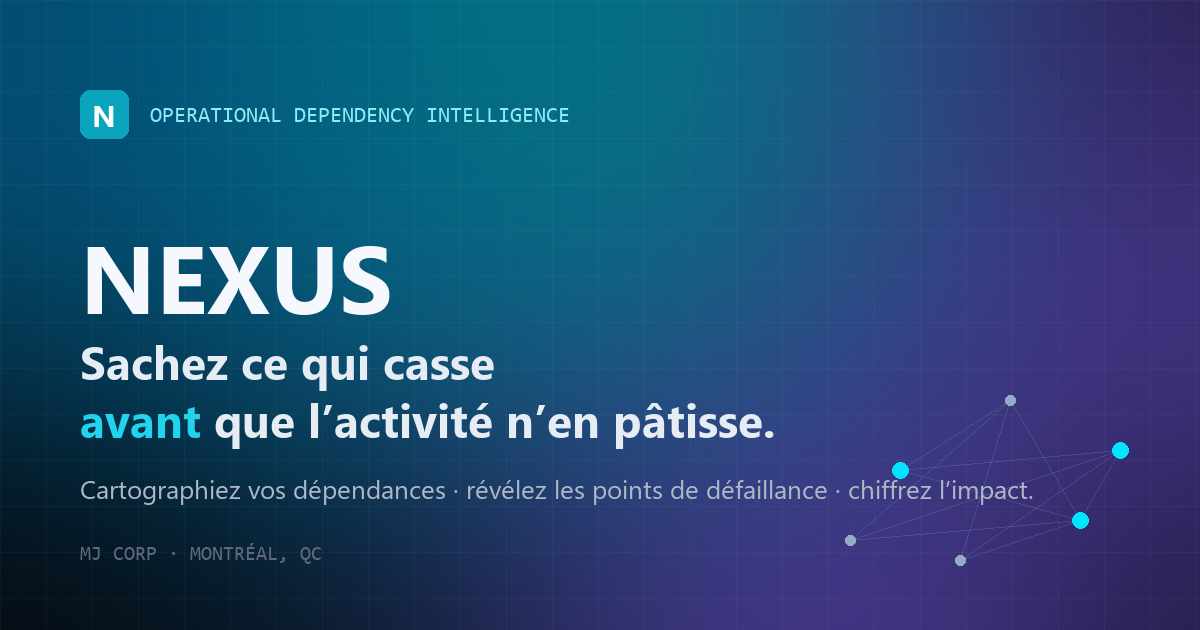
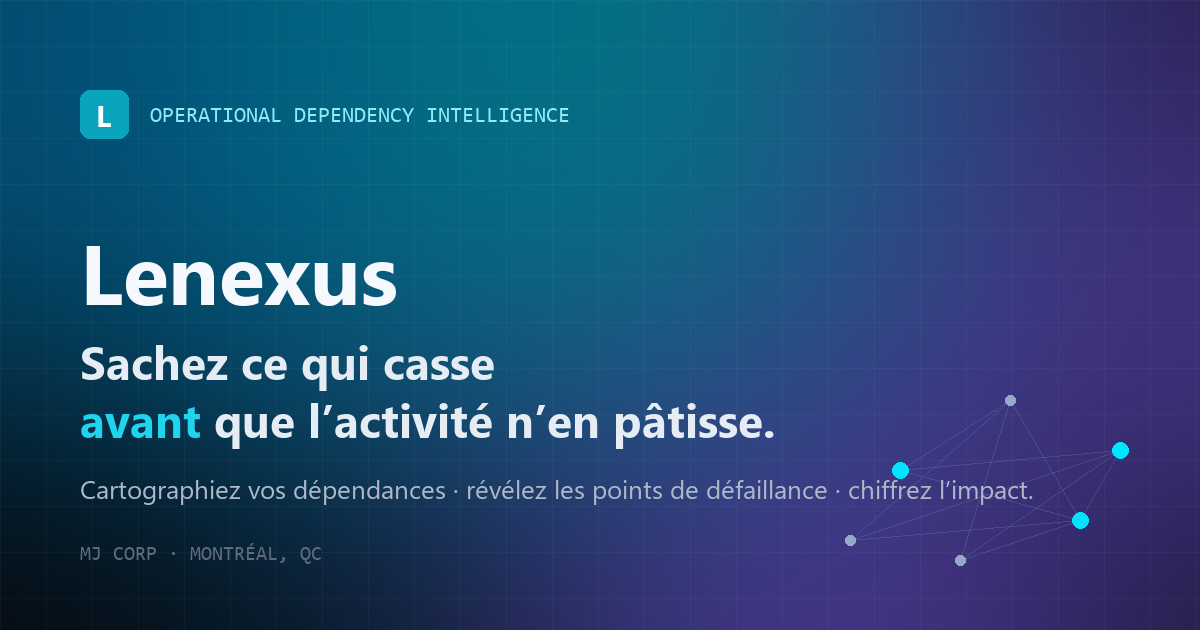
brand: rename displayed 'NEXUS' to 'Lenexus' across UI, metadata and OG image (nexus domain taken); internal namespaces/services unchanged

Changed region(s): [[0.0617, 0.3921, 0.3392, 0.5127], [0.0617, 0.1508, 0.0925, 0.2111]]

diff --git a/frontend/src/pages/Help.tsx b/frontend/src/pages/Help.tsx
@@ -31,15 +31,15 @@ const DOCS: readonly Doc[] = [
   {
     id: 'intro',
     icon: BookOpen,
-    title: ['Qu’est-ce que NEXUS', 'What is NEXUS'],
+    title: ['Qu’est-ce que Lenexus', 'What is Lenexus'],
     blocks: [
       { kind: 'p', text: [
-        'NEXUS est une plateforme d’intelligence des dépendances opérationnelles. Elle modélise vos systèmes, applications, infrastructures, fournisseurs, personnes et processus sous forme d’un graphe de dépendances, puis analyse ce graphe pour révéler ce qui casse — avant que l’activité n’en souffre.',
-        'NEXUS is an operational dependency intelligence platform. It models your systems, applications, infrastructure, suppliers, people and processes as a dependency graph, then analyzes that graph to reveal what breaks — before the business feels it.',
+        'Lenexus est une plateforme d’intelligence des dépendances opérationnelles. Elle modélise vos systèmes, applications, infrastructures, fournisseurs, personnes et processus sous forme d’un graphe de dépendances, puis analyse ce graphe pour révéler ce qui casse — avant que l’activité n’en souffre.',
+        'Lenexus is an operational dependency intelligence platform. It models your systems, applications, infrastructure, suppliers, people and processes as a dependency graph, then analyzes that graph to reveal what breaks — before the business feels it.',
       ] },
       { kind: 'p', text: [
-        'La devise résume la promesse : « Savoir ce qui casse avant que l’activité n’en pâtisse ». Concrètement, NEXUS répond à trois questions : où sont mes points uniques de défaillance ? que se passe-t-il si tel élément tombe ? combien ça coûte et combien de temps pour récupérer ?',
-        'The tagline sums up the promise: “Know what breaks before the business does.” In practice, NEXUS answers three questions: where are my single points of failure? what happens if a given element fails? how much does it cost and how long to recover?',
+        'La devise résume la promesse : « Savoir ce qui casse avant que l’activité n’en pâtisse ». Concrètement, Lenexus répond à trois questions : où sont mes points uniques de défaillance ? que se passe-t-il si tel élément tombe ? combien ça coûte et combien de temps pour récupérer ?',
+        'The tagline sums up the promise: “Know what breaks before the business does.” In practice, Lenexus answers three questions: where are my single points of failure? what happens if a given element fails? how much does it cost and how long to recover?',
       ] },
       { kind: 'h', text: ['À qui ça s’adresse', 'Who it is for'] },
       { kind: 'ul', items: [
@@ -73,8 +73,8 @@ const DOCS: readonly Doc[] = [
     title: ['Modèle de données : le graphe', 'Data model: the graph'],
     blocks: [
       { kind: 'p', text: [
-        'Tout dans NEXUS est soit une entité (un nœud), soit une relation (une arête orientée entre deux entités). C’est ce qui permet de suivre une dépendance de bout en bout.',
-        'Everything in NEXUS is either an entity (a node) or a relation (a directed edge between two entities). That is what makes it possible to trace a dependency end to end.',
+        'Tout dans Lenexus est soit une entité (un nœud), soit une relation (une arête orientée entre deux entités). C’est ce qui permet de suivre une dépendance de bout en bout.',
+        'Everything in Lenexus is either an entity (a node) or a relation (a directed edge between two entities). That is what makes it possible to trace a dependency end to end.',
       ] },
       { kind: 'h', text: ['Entités', 'Entities'] },
       { kind: 'ul', items: [
@@ -152,8 +152,8 @@ const DOCS: readonly Doc[] = [
         ['≤ 20 Faible · ≤ 40 Modéré · ≤ 60 Élevé · ≤ 80 Haut · > 80 Critique.', '≤ 20 Low · ≤ 40 Moderate · ≤ 60 Elevated · ≤ 80 High · > 80 Critical.'],
       ] },
       { kind: 'p', text: [
-        'Un point unique de défaillance (SPOF) est un élément dont beaucoup dépendent sans alternative : sa panne se propage largement. NEXUS les détecte structurellement et les met en tête.',
-        'A single point of failure (SPOF) is an element that many depend on with no alternative: its failure propagates widely. NEXUS detects them structurally and surfaces them first.',
+        'Un point unique de défaillance (SPOF) est un élément dont beaucoup dépendent sans alternative : sa panne se propage largement. Lenexus les détecte structurellement et les met en tête.',
+        'A single point of failure (SPOF) is an element that many depend on with no alternative: its failure propagates widely. Lenexus detects them structurally and surfaces them first.',
       ] },
     ],
   },
@@ -184,12 +184,12 @@ const DOCS: readonly Doc[] = [
     title: ['Connecteurs & import de données', 'Connectors & data import'],
     blocks: [
       { kind: 'p', text: [
-        'NEXUS accepte les données par import — vous gardez le contrôle de ce que vous partagez, sans donner d’accès privilégié à vos systèmes. Le catalogue distingue quatre niveaux.',
-        'NEXUS accepts data by import — you keep control of what you share, without granting privileged access to your systems. The catalogue has four tiers.',
+        'Lenexus accepte les données par import — vous gardez le contrôle de ce que vous partagez, sans donner d’accès privilégié à vos systèmes. Le catalogue distingue quatre niveaux.',
+        'Lenexus accepts data by import — you keep control of what you share, without granting privileged access to your systems. The catalogue has four tiers.',
       ] },
       { kind: 'ul', items: [
         ['Actif — fonctionne immédiatement : CSV/Excel, JSON (fichier ou URL), Import assisté par IA, Serveur MCP.', 'Active — works immediately: CSV/Excel, JSON (file or URL), AI-assisted import, MCP server.'],
-        ['Assisté — vous exportez depuis la plateforme source (M365, ServiceNow, AWS…) puis importez ; NEXUS guide le mapping.', 'Assisted — you export from the source platform (M365, ServiceNow, AWS…) then import; NEXUS guides the mapping.'],
+        ['Assisté — vous exportez depuis la plateforme source (M365, ServiceNow, AWS…) puis importez ; Lenexus guide le mapping.', 'Assisted — you export from the source platform (M365, ServiceNow, AWS…) then import; Lenexus guides the mapping.'],
         ['Prêt pour clé — modèles IA qui s’activent dès qu’une clé est fournie.', 'Key-ready — AI models that activate as soon as a key is provided.'],
         ['Roadmap — annoncés, pas encore construits.', 'Roadmap — announced, not built yet.'],
       ] },
@@ -200,8 +200,8 @@ const DOCS: readonly Doc[] = [
       ] },
       { kind: 'h', text: ['Résolution tolérante', 'Tolerant resolution'] },
       { kind: 'p', text: [
-        'À l’import, NEXUS reconnaît les synonymes et variantes de types (ex. « depends on », « DependsOn » → DEPENDS_ON) au lieu de rejeter la ligne. Les cas inconnus retombent sur des valeurs sûres.',
-        'On import, NEXUS recognizes synonyms and type variants (e.g. “depends on”, “DependsOn” → DEPENDS_ON) instead of dropping the row. Unknown cases fall back to safe defaults.',
+        'À l’import, Lenexus reconnaît les synonymes et variantes de types (ex. « depends on », « DependsOn » → DEPENDS_ON) au lieu de rejeter la ligne. Les cas inconnus retombent sur des valeurs sûres.',
+        'On import, Lenexus recognizes synonyms and type variants (e.g. “depends on”, “DependsOn” → DEPENDS_ON) instead of dropping the row. Unknown cases fall back to safe defaults.',
       ] },
     ],
   },
@@ -227,8 +227,8 @@ const DOCS: readonly Doc[] = [
     title: ['L’assistant IA', 'The AI Analyst'],
     blocks: [
       { kind: 'p', text: [
-        'L’Assistant IA répond en langage naturel, mais les chiffres viennent toujours des moteurs déterministes de NEXUS. L’IA ne fait que formuler la réponse — elle n’invente aucune donnée.',
-        'The AI Analyst answers in natural language, but the numbers always come from NEXUS’s deterministic engines. The AI only phrases the answer — it invents no data.',
+        'L’Assistant IA répond en langage naturel, mais les chiffres viennent toujours des moteurs déterministes de Lenexus. L’IA ne fait que formuler la réponse — elle n’invente aucune donnée.',
+        'The AI Analyst answers in natural language, but the numbers always come from Lenexus’s deterministic engines. The AI only phrases the answer — it invents no data.',
       ] },
       { kind: 'ul', items: [
         ['Fonctionne sans clé (réponses ancrées, non « naturalisées »).', 'Works without a key (grounded answers, not “naturalized”).'],
@@ -250,7 +250,7 @@ const DOCS: readonly Doc[] = [
         ['Authentification par jeton (JWT) : sans jeton valide, l’API est fermée.', 'Token authentication (JWT): without a valid token, the API is closed.'],
         ['Chaque compte est rattaché à un espace de travail (tenant) ; le tenant est inscrit dans le jeton par le serveur, pas falsifiable côté client.', 'Each account is bound to a workspace (tenant); the tenant is stamped into the token by the server, not client-falsifiable.'],
         ['Inscription libre : chaque nouveau compte ouvre un espace vierge et isolé, dont il est administrateur.', 'Self-registration: each new account opens a blank, isolated workspace it administers.'],
-        ['SSO Entra ID (Microsoft) disponible : connexion avec le compte professionnel, sans mot de passe NEXUS (activé par l’administrateur du déploiement).', 'Entra ID (Microsoft) SSO available: sign in with the corporate account, no NEXUS password (enabled by the deployment admin).'],
+        ['SSO Entra ID (Microsoft) disponible : connexion avec le compte professionnel, sans mot de passe Lenexus (activé par l’administrateur du déploiement).', 'Entra ID (Microsoft) SSO available: sign in with the corporate account, no Lenexus password (enabled by the deployment admin).'],
         ['Les mots de passe ne sont jamais stockés en clair (empreinte PBKDF2).', 'Passwords are never stored in clear text (PBKDF2 hash).'],
       ] },
       { kind: 'p', text: [
@@ -271,8 +271,8 @@ const DOCS: readonly Doc[] = [
       ] },
       { kind: 'h', text: ['Dois-je donner accès à mes systèmes ?', 'Do I have to grant access to my systems?'] },
       { kind: 'p', text: [
-        'Non. NEXUS fonctionne par import : vous n’exposez que ce que vous choisissez de partager. Les connexions directes en lecture seule sont une étape ultérieure et optionnelle.',
-        'No. NEXUS works by import: you only expose what you choose to share. Direct read-only connections are a later, optional step.',
+        'Non. Lenexus fonctionne par import : vous n’exposez que ce que vous choisissez de partager. Les connexions directes en lecture seule sont une étape ultérieure et optionnelle.',
+        'No. Lenexus works by import: you only expose what you choose to share. Direct read-only connections are a later, optional step.',
       ] },
       { kind: 'h', text: ['Les chiffres de risque sont-ils fiables ?', 'Are the risk numbers trustworthy?'] },
       { kind: 'p', text: [
@@ -281,8 +281,8 @@ const DOCS: readonly Doc[] = [
       ] },
       { kind: 'h', text: ['Comment obtenir de l’aide ?', 'How do I get help?'] },
       { kind: 'p', text: [
-        'Écrivez à support@nexus.io. Pour un déploiement (SSO, clés, connexions directes), contactez votre administrateur NEXUS.',
-        'Email support@nexus.io. For a deployment (SSO, keys, direct connections), contact your NEXUS administrator.',
+        'Écrivez à support@nexus.io. Pour un déploiement (SSO, clés, connexions directes), contactez votre administrateur Lenexus.',
+        'Email support@nexus.io. For a deployment (SSO, keys, direct connections), contact your Lenexus administrator.',
       ] },
     ],
   },
@@ -314,7 +314,7 @@ export function Help() {
           <BookOpen size={22} style={{ color: CYAN }} /> {t('Documentation & guide d’usage', 'Documentation & usage guide')}
         </h2>
         <p className="mt-1" style={{ fontSize: 13, color: 'var(--nx-text-muted)' }}>
-          {t('Tout ce qu’il faut savoir pour prendre NEXUS en main — concepts, modules, calcul du risque, sécurité.', 'Everything you need to get started with NEXUS — concepts, modules, risk computation, security.')}
+          {t('Tout ce qu’il faut savoir pour prendre Lenexus en main — concepts, modules, calcul du risque, sécurité.', 'Everything you need to get started with Lenexus — concepts, modules, risk computation, security.')}
         </p>
       </div>
 

diff --git a/frontend/src/pages/Landing.tsx b/frontend/src/pages/Landing.tsx
@@ -54,7 +54,7 @@ export function Landing() {
           <div className="flex h-8 w-8 items-center justify-center" style={{ background: '#6a86ff', clipPath: 'polygon(0 0,100% 0,100% 70%,70% 100%,0 100%)' }}>
             <Share2 size={16} strokeWidth={2.4} style={{ color: '#070714' }} />
           </div>
-          <span className="text-lg font-semibold tracking-tight" style={{ fontFamily: geist }}>NEXUS</span>
+          <span className="text-lg font-semibold tracking-tight" style={{ fontFamily: geist }}>Lenexus</span>
         </div>
         <nav className="slb-nav-links">
           <a href="#essentiel">{t('L’essentiel', 'Essentials')}</a>
@@ -89,8 +89,8 @@ export function Landing() {
             <span className="slb-accent">{t('avant', 'before')}</span> {t('que l’activité n’en pâtisse.', 'the business does.')}
           </h1>
           <p className="slb-sub">
-            {t('NEXUS cartographie vos systèmes, fournisseurs et personnes en un graphe vivant, révèle vos points uniques de défaillance, simule les pannes et en chiffre l’impact.',
-               'NEXUS maps your systems, suppliers and people into a living graph, reveals your single points of failure, simulates outages and quantifies their impact.')}
+            {t('Lenexus cartographie vos systèmes, fournisseurs et personnes en un graphe vivant, révèle vos points uniques de défaillance, simule les pannes et en chiffre l’impact.',
+               'Lenexus maps your systems, suppliers and people into a living graph, reveals your single points of failure, simulates outages and quantifies their impact.')}
           </p>
           <div className="mt-9 flex flex-col gap-3 sm:flex-row">
             <BoxBtn onClick={() => navigate('/login?signup=1')} label={t('Créer un compte', 'Create an account')} primary />
@@ -102,7 +102,7 @@ export function Landing() {
       {/* ══════════ L'ESSENTIEL — 3 numéros ══════════ */}
       <Section id="essentiel">
         <Label>{t('L’essentiel', 'The essentials')}</Label>
-        <SectionH>{t('Comment NEXUS révèle vos angles morts.', 'How NEXUS reveals your blind spots.')}</SectionH>
+        <SectionH>{t('Comment Lenexus révèle vos angles morts.', 'How Lenexus reveals your blind spots.')}</SectionH>
         <div className="mt-14 grid gap-px md:grid-cols-3" style={{ background: '#1c1c22' }}>
           <NumCard n="01" tag={t('Cartographie', 'Mapping')} title={t('Cartographier', 'Map')}
             body={t('Systèmes, fournisseurs et personnes dans un graphe unique et navigable.', 'Systems, suppliers and people in a single, navigable graph.')} />
@@ -127,8 +127,8 @@ export function Landing() {
       <Section>
         <DeepRow reverse tag="02 · " kicker={t('Simulation', 'Simulation')}
           title={t('Rejouez une panne, mesurez l’impact.', 'Replay an outage, measure the impact.')}
-          body={t('Coupez virtuellement un élément ou testez une décision : NEXUS calcule la cascade, le délai de reprise et l’impact financier, puis l’IA l’explique en langage clair.',
-                  'Virtually cut an element or test a decision: NEXUS computes the cascade, the recovery time and the financial impact, then the AI explains it in plain language.')}
+          body={t('Coupez virtuellement un élément ou testez une décision : Lenexus calcule la cascade, le délai de reprise et l’impact financier, puis l’IA l’explique en langage clair.',
+                  'Virtually cut an element or test a decision: Lenexus computes the cascade, the recovery time and the financial impact, then the AI explains it in plain language.')}
           points={[t('Propagation multi-niveaux', 'Multi-level propagation'), t('RTO et impact chiffré', 'RTO and quantified impact'), t('Comparaison de scénarios', 'Scenario comparison')]}
           visual={<ImpactBars />} />
         <div className="mt-10 flex flex-wrap gap-2">
@@ -188,10 +188,10 @@ export function Landing() {
         <Label>FAQ</Label>
         <SectionH>{t('Questions fréquentes.', 'Frequent questions.')}</SectionH>
         <div className="mt-10 mx-auto max-w-3xl">
-          <Faq q={t('Faut-il connecter NEXUS à nos systèmes ?', 'Do we need to connect NEXUS to our systems?')}
-            a={t('Non. NEXUS fonctionne par import : fichier, JSON ou données collées que l’IA structure. Aucun accès privilégié requis.', 'No. NEXUS works by import: file, JSON or pasted data the AI structures. No privileged access required.')} />
+          <Faq q={t('Faut-il connecter Lenexus à nos systèmes ?', 'Do we need to connect Lenexus to our systems?')}
+            a={t('Non. Lenexus fonctionne par import : fichier, JSON ou données collées que l’IA structure. Aucun accès privilégié requis.', 'No. Lenexus works by import: file, JSON or pasted data the AI structures. No privileged access required.')} />
           <Faq q={t('L’IA invente-t-elle des chiffres ?', 'Does the AI make up numbers?')}
-            a={t('Jamais. Le moteur déterministe calcule ; l’IA interprète et explique. Sans clé, NEXUS bascule sur des règles et reste fonctionnel.', 'Never. The deterministic engine computes; the AI interprets and explains. Without a key, NEXUS falls back to rules and stays functional.')} />
+            a={t('Jamais. Le moteur déterministe calcule ; l’IA interprète et explique. Sans clé, Lenexus bascule sur des règles et reste fonctionnel.', 'Never. The deterministic engine computes; the AI interprets and explains. Without a key, Lenexus falls back to rules and stays functional.')} />
           <Faq q={t('Nos données sont-elles isolées ?', 'Is our data isolated?')}
             a={t('Oui. Un espace de travail cloisonné par client, mots de passe hachés, SSO Entra ID disponible.', 'Yes. A partitioned workspace per client, hashed passwords, Entra ID SSO available.')} />
           <Faq q={t('Combien de temps pour un premier résultat ?', 'How long to a first result?')}
@@ -221,7 +221,7 @@ export function Landing() {
         <div className="mx-auto flex max-w-6xl flex-col items-center justify-between gap-4 sm:flex-row">
           <div className="flex items-center gap-2">
             <Share2 size={15} style={{ color: '#6a86ff' }} />
-            <span style={{ fontFamily: geist, fontSize: 14 }}>NEXUS</span>
+            <span style={{ fontFamily: geist, fontSize: 14 }}>Lenexus</span>
             <span style={{ fontFamily: mono, fontSize: 11, color: '#6b6b78' }}>· MJ Corp</span>
           </div>
           <p style={{ fontFamily: mono, fontSize: 11, color: '#6b6b78' }}>{t('Savoir ce qui casse avant que l’activité n’en pâtisse.', 'Know what breaks before the business does.')}</p>

diff --git a/frontend/index.html b/frontend/index.html
@@ -5,13 +5,13 @@
     <meta name="viewport" content="width=device-width, initial-scale=1.0" />
 
     <!-- Identité -->
-    <title>NEXUS — Intelligence des dépendances opérationnelles</title>
-    <meta name="description" content="NEXUS cartographie vos systèmes, fournisseurs et personnes en un graphe de dépendances vivant, révèle vos points uniques de défaillance, simule les pannes et en chiffre l’impact." />
-    <meta name="keywords" content="NEXUS, dépendances, intelligence des dépendances, risque opérationnel, SPOF, point unique de défaillance, continuité, simulation, graphe, cybersécurité, Loi 25, RGPD, MJ Corp" />
+    <title>Lenexus — Intelligence des dépendances opérationnelles</title>
+    <meta name="description" content="Lenexus cartographie vos systèmes, fournisseurs et personnes en un graphe de dépendances vivant, révèle vos points uniques de défaillance, simule les pannes et en chiffre l’impact." />
+    <meta name="keywords" content="Lenexus, dépendances, intelligence des dépendances, risque opérationnel, SPOF, point unique de défaillance, continuité, simulation, graphe, cybersécurité, Loi 25, RGPD, MJ Corp" />
     <meta name="author" content="MJ Corp" />
     <meta name="robots" content="index, follow" />
-    <meta name="application-name" content="NEXUS" />
-    <meta name="apple-mobile-web-app-title" content="NEXUS" />
+    <meta name="application-name" content="Lenexus" />
+    <meta name="apple-mobile-web-app-title" content="Lenexus" />
     <meta name="apple-mobile-web-app-capable" content="yes" />
     <meta name="mobile-web-app-capable" content="yes" />
     <meta name="apple-mobile-web-app-status-bar-style" content="black-translucent" />
@@ -29,8 +29,8 @@
 
     <!-- Open Graph (Facebook, LinkedIn, Slack, iMessage…) -->
     <meta property="og:type" content="website" />
-    <meta property="og:site_name" content="NEXUS" />
-    <meta property="og:title" content="NEXUS — Intelligence des dépendances opérationnelles" />
+    <meta property="og:site_name" content="Lenexus" />
+    <meta property="og:title" content="Lenexus — Intelligence des dépendances opérationnelles" />
     <meta property="og:description" content="Sachez ce qui casse avant que l’activité n’en pâtisse. Cartographiez vos dépendances, révélez les points uniques de défaillance et chiffrez l’impact des pannes." />
     <meta property="og:url" content="https://nexus-web-6cak.onrender.com/" />
     <meta property="og:image" content="https://nexus-web-6cak.onrender.com/og-image.png" />
@@ -38,23 +38,23 @@
     <meta property="og:image:type" content="image/png" />
     <meta property="og:image:width" content="1200" />
     <meta property="og:image:height" content="630" />
-    <meta property="og:image:alt" content="NEXUS — Intelligence des dépendances opérationnelles" />
+    <meta property="og:image:alt" content="Lenexus — Intelligence des dépendances opérationnelles" />
     <meta property="og:locale" content="fr_CA" />
     <meta property="og:locale:alternate" content="en_CA" />
 
     <!-- Twitter / X -->
     <meta name="twitter:card" content="summary_large_image" />
-    <meta name="twitter:title" content="NEXUS — Intelligence des dépendances opérationnelles" />
+    <meta name="twitter:title" content="Lenexus — Intelligence des dépendances opérationnelles" />
     <meta name="twitter:description" content="Sachez ce qui casse avant que l’activité n’en pâtisse. Cartographiez, simulez, chiffrez l’impact." />
     <meta name="twitter:image" content="https://nexus-web-6cak.onrender.com/og-image.png" />
-    <meta name="twitter:image:alt" content="NEXUS — Intelligence des dépendances opérationnelles" />
+    <meta name="twitter:image:alt" content="Lenexus — Intelligence des dépendances opérationnelles" />
 
     <!-- Données structurées (SEO) -->
     <script type="application/ld+json">
       {
         "@context": "https://schema.org",
         "@type": "SoftwareApplication",
-        "name": "NEXUS",
+        "name": "Lenexus",
         "applicationCategory": "BusinessApplication",
         "operatingSystem": "Web",
         "description": "Plateforme d’intelligence des dépendances opérationnelles : cartographie du graphe de dépendances, détection des points uniques de défaillance, simulation de pannes et chiffrage de l’impact.",

diff --git a/frontend/src/lib/connectors.ts b/frontend/src/lib/connectors.ts
@@ -1,8 +1,8 @@
-// Catalogue de connecteurs NEXUS.
+// Catalogue de connecteurs Lenexus.
 // Statuts HONNÊTES :
 //  - active   : opérationnel aujourd'hui (moteur d'ingestion universel).
 //  - assisted : mapping d'ontologie déjà défini ; il suffit de fournir l'export
-//               du fournisseur (CSV/JSON) et NEXUS le normalise — fonctionne dès
+//               du fournisseur (CSV/JSON) et Lenexus le normalise — fonctionne dès
 //               maintenant, sans OAuth.
 //  - key      : intégration IA réelle, activée en ajoutant une clé API.
 //  - roadmap  : nécessite une synchro API/OAuth live (à venir).
@@ -47,7 +47,7 @@ export const CONNECTORS: Connector[] = [
   { id: 'webhook', name: 'Webhook entrant', category: 'files', authType: 'apikey', tier: 'assisted', glyph: 'WH', descFr: 'Recevez des événements poussés (création/mise à jour d’actifs).', descEn: 'Receive pushed events (asset create/update).', bringsFr: 'Mises à jour incrémentales', bringsEn: 'Incremental updates', docUrl: 'https://www.rfc-editor.org/rfc/rfc8935' },
 
   // ---- IA & MCP ----
-  { id: 'mcp-server', name: 'Serveur MCP NEXUS', category: 'ai', authType: 'apikey', tier: 'active', glyph: 'MCP', descFr: 'Exposez NEXUS comme serveur MCP : Claude interroge le graphe et lance des simulations.', descEn: 'Expose NEXUS as an MCP server: Claude queries the graph and runs simulations.', bringsFr: 'Requêtes graphe, risques, what-if', bringsEn: 'Graph queries, risks, what-if', docUrl: 'https://modelcontextprotocol.io/' },
+  { id: 'mcp-server', name: 'Serveur MCP Lenexus', category: 'ai', authType: 'apikey', tier: 'active', glyph: 'MCP', descFr: 'Exposez Lenexus comme serveur MCP : Claude interroge le graphe et lance des simulations.', descEn: 'Expose Lenexus as an MCP server: Claude queries the graph and runs simulations.', bringsFr: 'Requêtes graphe, risques, what-if', bringsEn: 'Graph queries, risks, what-if', docUrl: 'https://modelcontextprotocol.io/' },
   { id: 'claude', name: 'Claude (Anthropic)', category: 'ai', authType: 'apikey', tier: 'key', glyph: 'CL', descFr: 'Moteur d’analyse en langage naturel et de mapping automatique. Ajoutez une clé pour l’activer.', descEn: 'Natural-language analysis and auto-mapping engine. Add a key to enable.', bringsFr: 'Raisonnement, extraction, naturalisation', bringsEn: 'Reasoning, extraction, naturalization', docUrl: 'https://docs.anthropic.com/en/api/getting-started' },
   { id: 'gemini', name: 'Google Gemini', category: 'ai', authType: 'apikey', tier: 'key', glyph: 'GEM', descFr: 'LLM Google avec palier GRATUIT (ex. gemini-1.5-flash). Idéal pour tester sans coût. Activable par clé.', descEn: 'Google LLM with a FREE tier (e.g. gemini-1.5-flash). Ideal to test at no cost. Enable by key.', bringsFr: 'Raisonnement, extraction', bringsEn: 'Reasoning, extraction', docUrl: 'https://ai.google.dev/gemini-api/docs/api-key' },
   { id: 'openai', name: 'OpenAI', category: 'ai', authType: 'apikey', tier: 'key', glyph: 'AI', descFr: 'Fournisseur LLM alternatif pour l’analyse et le mapping. Activable par clé.', descEn: 'Alternative LLM provider for analysis and mapping. Enable by key.', bringsFr: 'Raisonnement, extraction', bringsEn: 'Reasoning, extraction', docUrl: 'https://platform.openai.com/docs' },

diff --git a/frontend/src/pages/AiAnalyst.tsx b/frontend/src/pages/AiAnalyst.tsx
@@ -63,7 +63,7 @@ export function AiAnalyst() {
       <section className="flex flex-1 flex-col overflow-hidden border-r" style={{ borderColor: 'var(--nx-border)', background: 'var(--nx-surface)' }}>
         <header className="flex h-16 shrink-0 flex-col justify-center border-b px-6" style={{ borderColor: 'var(--nx-border)', background: 'var(--nx-surface-container)' }}>
           <h2 className="flex items-center gap-2" style={{ fontFamily: mono, fontSize: 13, fontWeight: 700, letterSpacing: '0.05em', textTransform: 'uppercase', color: 'var(--nx-text)' }}>
-            <span className="h-2 w-2 animate-pulse rounded-full" style={{ background: CYAN, boxShadow: '0 0 8px #00e5ff' }} /> {t('Analyste NEXUS', 'NEXUS Analyst')}
+            <span className="h-2 w-2 animate-pulse rounded-full" style={{ background: CYAN, boxShadow: '0 0 8px #00e5ff' }} /> {t('Analyste Lenexus', 'Lenexus Analyst')}
           </h2>
           <p style={{ fontSize: 13, color: 'var(--nx-text-muted)' }}>{t('Posez des questions sur les dépendances opérationnelles de votre organisation.', "Ask questions about your organization's operational dependencies.")}</p>
         </header>
@@ -73,7 +73,7 @@ export function AiAnalyst() {
           {turns.length === 0 && (
             <div className="m-auto max-w-md text-center">
               <div className="mx-auto mb-3 w-fit rounded-sm p-3" style={{ background: 'rgba(0,229,255,0.1)', border: '1px solid rgba(0,229,255,0.3)' }}><Sparkles size={24} style={{ color: CYAN }} /></div>
-              <div style={{ fontFamily: geist, fontSize: 18, color: 'var(--nx-text)' }}>{t('Analyste NEXUS', 'NEXUS Analyst')}</div>
+              <div style={{ fontFamily: geist, fontSize: 18, color: 'var(--nx-text)' }}>{t('Analyste Lenexus', 'Lenexus Analyst')}</div>
               <p className="mt-1" style={{ fontSize: 13, color: 'var(--nx-text-muted)' }}>{t('Chaque réponse s’appuie sur les moteurs déterministes, avec ses preuves et son niveau de confiance.', 'Every answer is grounded in the deterministic engines, with its evidence and confidence.')}</p>
             </div>
           )}
@@ -114,7 +114,7 @@ export function AiAnalyst() {
           </div>
           <form className="relative flex items-center" onSubmit={(e) => { e.preventDefault(); submit(input) }}>
             <Terminal size={18} className="absolute left-4" style={{ color: 'var(--nx-text-muted)' }} />
-            <input value={input} onChange={(e) => setInput(e.target.value)} placeholder={t('Demandez n’importe quoi à NEXUS…', 'Ask NEXUS anything… (e.g. ⌘+K)')}
+            <input value={input} onChange={(e) => setInput(e.target.value)} placeholder={t('Demandez n’importe quoi à Lenexus…', 'Ask Lenexus anything… (e.g. ⌘+K)')}
               className="w-full rounded-sm border py-3 pl-12 pr-14 outline-none" style={{ background: 'var(--nx-surface)', borderColor: 'var(--nx-border)', color: 'var(--nx-text)', fontFamily: mono, fontSize: 13 }} />
             <button type="submit" disabled={ask.isPending || !input.trim()} className="absolute right-3 flex h-8 w-8 items-center justify-center rounded-sm disabled:opacity-40"
               style={{ background: 'rgba(0,229,255,0.2)', border: '1px solid rgba(0,229,255,0.5)', color: CYAN }}><Send size={15} /></button>

diff --git a/frontend/src/pages/Reports.tsx b/frontend/src/pages/Reports.tsx
@@ -113,7 +113,7 @@ function ReportPreview({ report, type, threshold }: { report: ExecutiveReport; t
       <header className="flex items-end justify-between border-b p-8" style={{ borderColor: 'var(--nx-border)', background: 'var(--nx-panel)' }}>
         <div>
           <p className="mb-2 uppercase" style={{ fontFamily: mono, fontSize: 10, letterSpacing: '0.2em', color: CYAN_T }}>{t('Confidentiel interne', 'Internal Confidential')}</p>
-          <h2 style={{ fontFamily: geist, fontSize: 28, fontWeight: 600, color: 'var(--nx-text)', lineHeight: 1.1 }}>{t('RAPPORT STRATÉGIQUE', 'NEXUS STRATEGIC')}<br />{t('DE RÉSILIENCE NEXUS', 'RESILIENCE REPORT')}</h2>
+          <h2 style={{ fontFamily: geist, fontSize: 28, fontWeight: 600, color: 'var(--nx-text)', lineHeight: 1.1 }}>{t('RAPPORT STRATÉGIQUE', 'Lenexus STRATEGIC')}<br />{t('DE RÉSILIENCE Lenexus', 'RESILIENCE REPORT')}</h2>
         </div>
         <div className="text-right">
           <p style={{ fontFamily: mono, fontSize: 14, color: 'var(--nx-text)' }}>{t('T3 2026', 'Q3 2026')}</p>
@@ -202,7 +202,7 @@ function ReportPreview({ report, type, threshold }: { report: ExecutiveReport; t
         )}
 
         <div className="border-t pt-4 text-center" style={{ borderColor: 'var(--nx-border)', fontFamily: mono, fontSize: 10, color: 'var(--nx-text-muted)' }}>
-          {t('NEXUS — Intelligence opérationnelle des dépendances · Confidentiel', 'NEXUS — Operational Dependency Intelligence · Confidential')}
+          {t('Lenexus — Intelligence opérationnelle des dépendances · Confidentiel', 'Lenexus — Operational Dependency Intelligence · Confidential')}
         </div>
       </div>
     </div>

diff --git a/frontend/src/components/Layout.tsx b/frontend/src/components/Layout.tsx
@@ -92,7 +92,7 @@ export function Layout({ children, header }: { children: ReactNode; header?: Rea
           </div>
           {!collapsed && (
             <div className="min-w-0 flex-1">
-              <div className="font-bold tracking-tighter" style={{ fontFamily: geist, fontSize: 20, lineHeight: 1, color: 'var(--nx-cyan-text)' }}>NEXUS</div>
+              <div className="font-bold tracking-tighter" style={{ fontFamily: geist, fontSize: 20, lineHeight: 1, color: 'var(--nx-cyan-text)' }}>Lenexus</div>
               <div className="mt-1 truncate" style={{ fontFamily: mono, fontSize: 10, letterSpacing: '0.15em', textTransform: 'uppercase', color: 'var(--nx-text-muted)', opacity: 0.8 }}>{t('Intelligence opérationnelle', 'Operational Intel')}</div>
             </div>
           )}
@@ -174,7 +174,7 @@ export function Layout({ children, header }: { children: ReactNode; header?: Rea
             >
               {collapsed ? <PanelLeftOpen size={18} /> : <PanelLeftClose size={18} />}
             </button>
-            <span className="hidden font-bold tracking-tight md:block" style={{ fontFamily: geist, fontSize: 20, color: 'var(--nx-text)' }}>NEXUS COMMAND</span>
+            <span className="hidden font-bold tracking-tight md:block" style={{ fontFamily: geist, fontSize: 20, color: 'var(--nx-text)' }}>Lenexus COMMAND</span>
             <CommandSearch inputRef={searchRef} />
           </div>
           <div className="flex items-center gap-3">

diff --git a/frontend/src/pages/DocumentIntelligence.tsx b/frontend/src/pages/DocumentIntelligence.tsx
@@ -69,7 +69,7 @@ export function DocumentIntelligence() {
         <h2 className="flex items-center gap-2" style={{ fontFamily: geist, fontSize: 24, color: 'var(--nx-text)' }}>
           <ScanText size={22} style={{ color: CYAN }} /> {t('Intelligence documentaire', 'Document Intelligence')}
         </h2>
-        <p className="mt-1" style={{ fontSize: 13, color: 'var(--nx-text-muted)' }}>{t('Importez ou collez des runbooks, notes d’incident ou documents d’architecture — NEXUS en extrait les dépendances et risques, recoupés avec votre graphe en direct.', 'Upload or paste runbooks, incident notes or architecture docs — NEXUS extracts the dependencies and risks they reference against your live graph.')}</p>
+        <p className="mt-1" style={{ fontSize: 13, color: 'var(--nx-text-muted)' }}>{t('Importez ou collez des runbooks, notes d’incident ou documents d’architecture — Lenexus en extrait les dépendances et risques, recoupés avec votre graphe en direct.', 'Upload or paste runbooks, incident notes or architecture docs — Lenexus extracts the dependencies and risks they reference against your live graph.')}</p>
       </div>
 
       <div className="grid gap-4 lg:grid-cols-2">

diff --git a/frontend/src/pages/Login.tsx b/frontend/src/pages/Login.tsx
@@ -155,7 +155,7 @@ export function Login() {
               className="text-4xl font-semibold tracking-tighter"
               style={{ fontFamily: 'var(--font-geist)', color: 'var(--nx-text)' }}
             >
-              NEXUS
+              Lenexus
             </h1>
           </div>
           <p
@@ -188,7 +188,7 @@ export function Login() {
           {/* En-tête */}
           <div className="flex flex-col gap-2">
             <h2 className="text-2xl font-medium" style={{ fontFamily: 'var(--font-geist)', color: 'var(--nx-text)', letterSpacing: '-0.01em' }}>
-              {mode === 'signup' ? t('Créer un compte NEXUS', 'Create your NEXUS account') : t('Connexion à NEXUS', 'Sign in to NEXUS')}
+              {mode === 'signup' ? t('Créer un compte Lenexus', 'Create your Lenexus account') : t('Connexion à Lenexus', 'Sign in to Lenexus')}
             </h2>
             <div className="flex items-center gap-2" style={{ fontFamily: 'var(--font-mono)', fontSize: 12, letterSpacing: '0.05em', color: 'var(--nx-cyan-text)' }}>
               <ShieldCheck size={16} />

diff --git a/frontend/src/index.css b/frontend/src/index.css
@@ -1,7 +1,7 @@
 @import 'tailwindcss';
 
 /*
-  NEXUS — thème enterprise sobre et dense, désormais CLAIR (light).
+  Lenexus — thème enterprise sobre et dense, désormais CLAIR (light).
   Palette : gris clairs + accent cyan/teal, couleurs de risque assombries
   pour rester lisibles sur fond clair.
 */
@@ -73,7 +73,7 @@ body {
 }
 
 /* =====================================================================
-   NEXUS Operational Design System (source : Stitch)
+   Lenexus Operational Design System (source : Stitch)
    Palette « deep space » + accent cyan électrique, fonts Geist/Inter/Mono.
    ===================================================================== */
 :root {

diff --git a/frontend/src/pages/IntegrationMarketplace.tsx b/frontend/src/pages/IntegrationMarketplace.tsx
@@ -40,7 +40,7 @@ export function IntegrationMarketplace() {
         </h2>
         <p className="mt-1" style={{ fontSize: 13, color: 'var(--nx-text-muted)' }}>
           {t(`${CONNECTORS.length} connecteurs · ${usable} exploitables aujourd’hui`, `${CONNECTORS.length} connectors · ${usable} usable today`)}
-          {' — '}{t('alimentez NEXUS depuis vos systèmes existants.', 'feed NEXUS from your existing systems.')}
+          {' — '}{t('alimentez Lenexus depuis vos systèmes existants.', 'feed Lenexus from your existing systems.')}
         </p>
       </div>
 

diff --git a/frontend/src/App.tsx b/frontend/src/App.tsx
@@ -77,7 +77,7 @@ export default function App() {
       header={
         <>
           <h1 className="text-sm font-semibold" style={{ color: 'var(--color-text-strong)' }}>
-            {TITLES[pathname] ?? 'NEXUS'}
+            {TITLES[pathname] ?? 'Lenexus'}
           </h1>
           <div className="flex items-center gap-3 text-xs" style={{ color: 'var(--color-text-muted)' }}>
             <span title="Tenant (issu du jeton)">tenant&nbsp;·&nbsp;{tenant.slice(0, 8)}</span>
